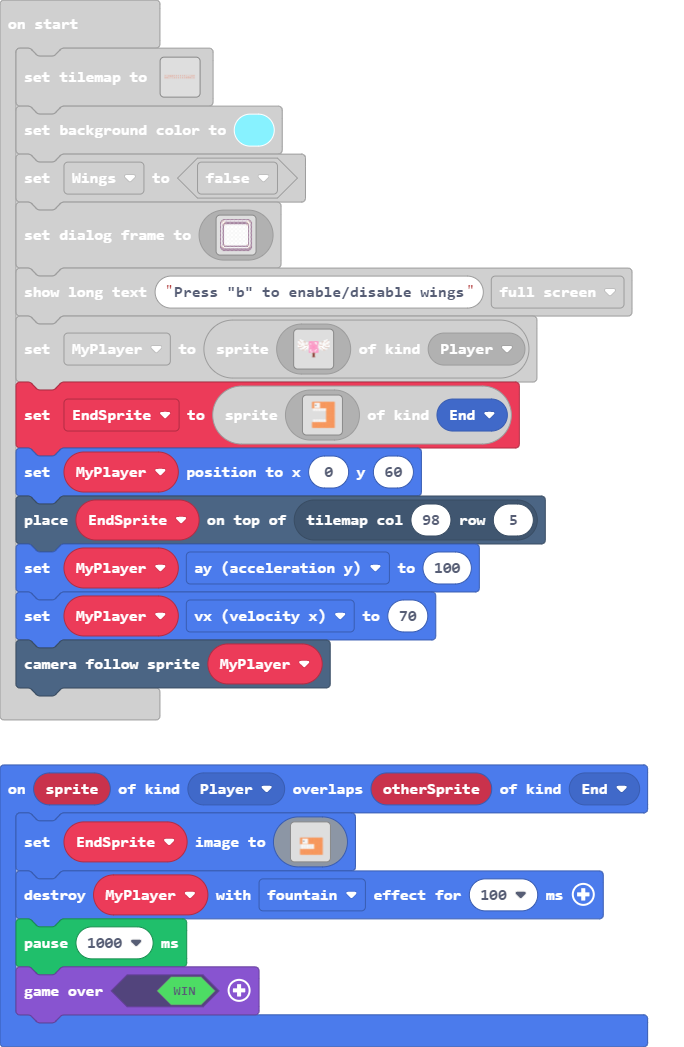
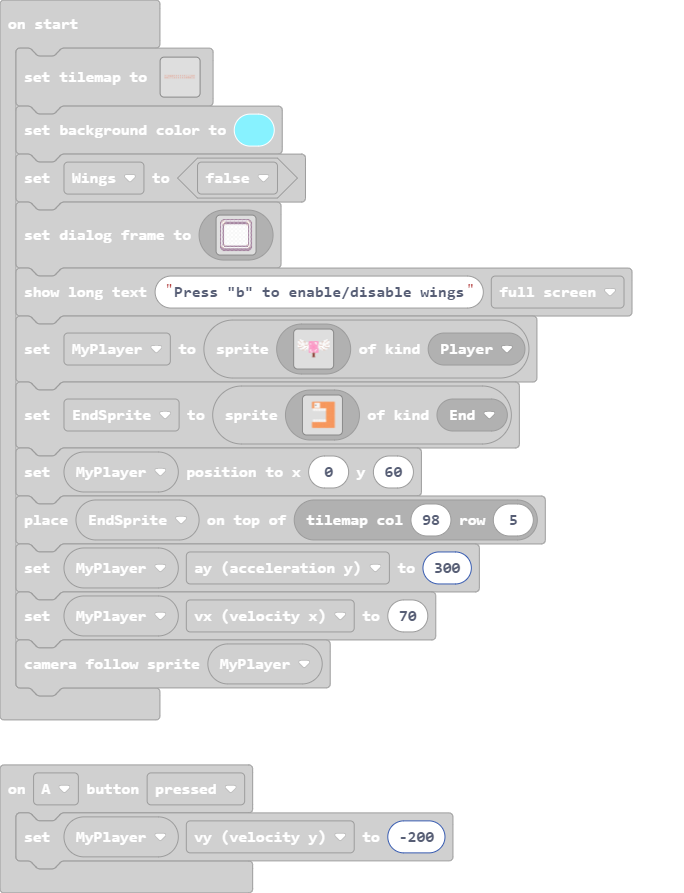
Update main.blocks, main.ts

diff --git a/main.ts b/main.ts
@@ -13,7 +13,7 @@ controller.B.onEvent(ControllerButtonEvent.Pressed, function () {
     }
 })
 controller.A.onEvent(ControllerButtonEvent.Pressed, function () {
-    MyPlayer.vy = -60
+    MyPlayer.vy = -200
 })
 controller.left.onEvent(ControllerButtonEvent.Pressed, function () {
     MyPlayer.vy = -60
@@ -70,7 +70,7 @@ MyPlayer = sprites.create(assets.image`Player-Wings`, SpriteKind.Player)
 EndSprite = sprites.create(assets.image`End-Mouth-Open`, SpriteKind.End)
 MyPlayer.setPosition(0, 60)
 tiles.placeOnTile(EndSprite, tiles.getTileLocation(98, 5))
-MyPlayer.ay = 100
+MyPlayer.ay = 300
 MyPlayer.vx = 70
 scene.cameraFollowSprite(MyPlayer)
 forever(function () {
